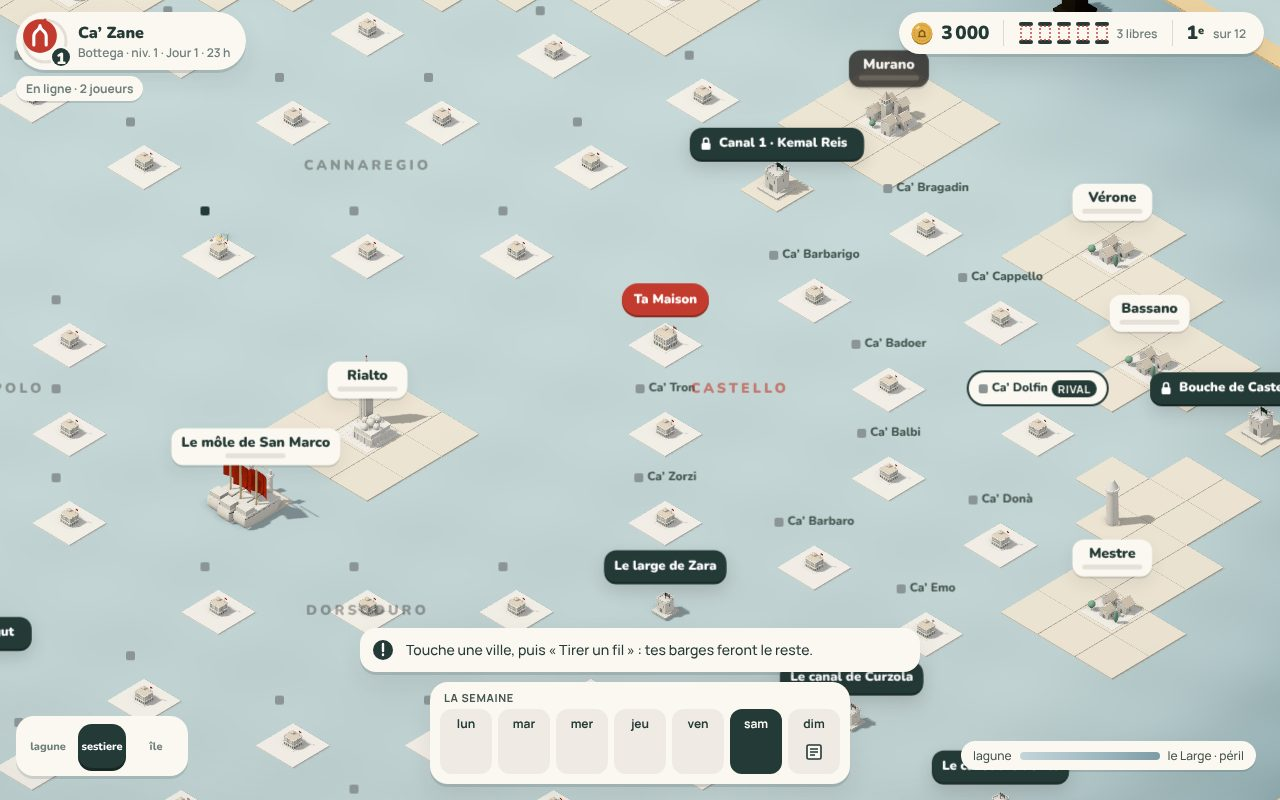
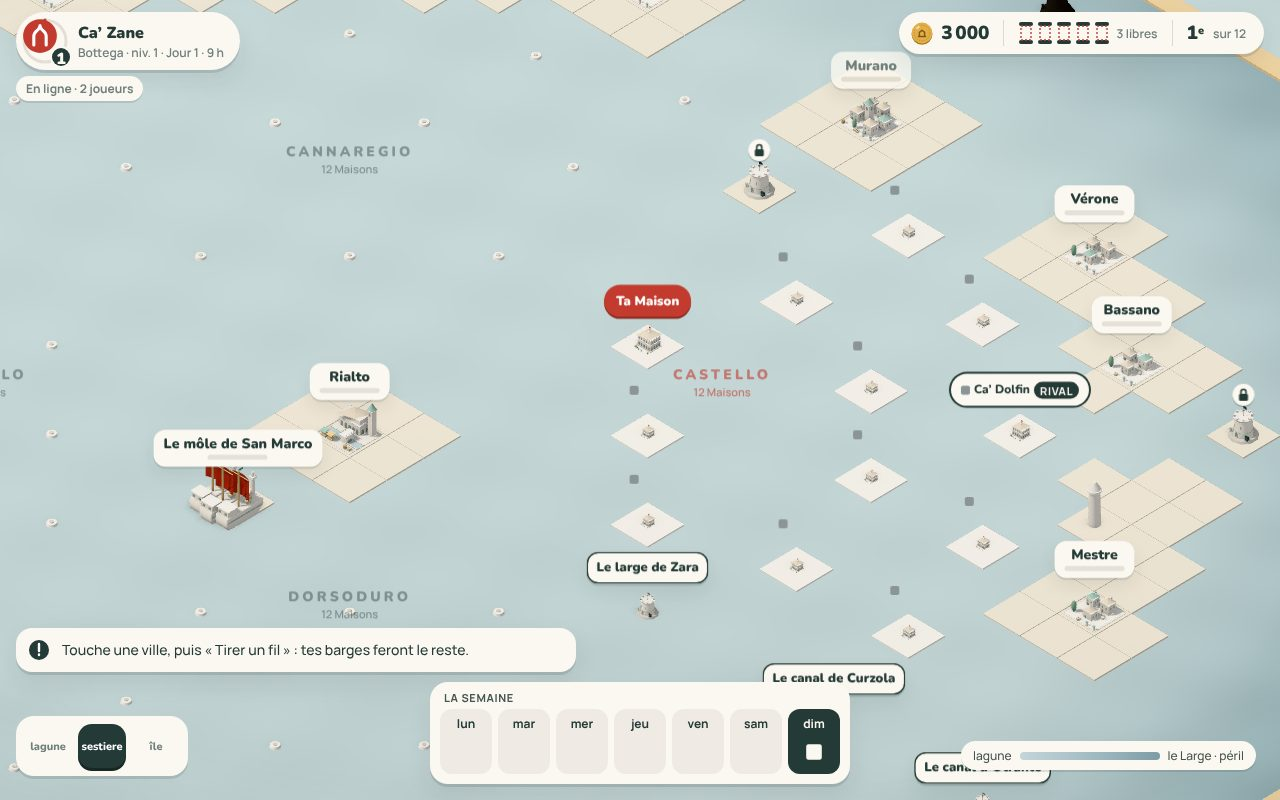
Lagune simplifiée (S1) : quatre Maisons nommées, les autres sestieri en plots, le décor et les fils des autres retirés
Claude-Session: https://claude.ai/code/session_018R4YjaoBgswAiyN4DySRU5

diff --git a/apps/web/src/porcellana/planche/PlancheBoard.tsx b/apps/web/src/porcellana/planche/PlancheBoard.tsx
@@ -60,6 +60,7 @@ import { box, crate, cyl, disposeBuilt } from "../shapes.js";
 import { BOARD, CAMERA, CELADON, LAGOON, RIBBON, SEA, THREAD } from "../tokens.js";
 
 const S = BOARD.tile + BOARD.gap;
+const NONE: readonly string[] = [];
 
 /** What the board is made of beside its houses and towns: where the land lies, how dark each tile is. */
 export interface PlancheLand {
@@ -160,6 +161,7 @@ export function PlancheBoard({
   plain,
   zoom = 1,
   rival,
+  focus = NONE,
   whole = false,
   marks = [],
 }: {
@@ -177,6 +179,8 @@ export function PlancheBoard({
   zoom?: number;
   /** One's rival of the week: its threads in a bolder ink (docs/plan-classement.md). */
   rival?: string;
+  /** The houses one reads the board by, besides one's own: the rival, who is ahead, who behind. */
+  focus?: readonly string[];
   /** The whole lagoon in view, centred (docs/plan-lagunes.md G5); one's own sestiere otherwise. */
   whole?: boolean;
   /** Labels laid on the board itself (the sestieri's names on the water), by key and tile. */
@@ -188,6 +192,10 @@ export function PlancheBoard({
   const { width: W, height: H } = setup;
   const wx = (x: number) => (x - (W - 1) / 2) * S;
   const wz = (y: number) => (y - (H - 1) / 2) * S;
+  const home = setup.houses.find((h) => h.id === me)?.sestiere;
+  const focusKey = focus.join(",");
+  /** Whose island is dressed on the board (its workshops, its fleet, its beacon, its stones). */
+  const dressed = (id: string) => id === me || id === rival;
 
   // The ground (docs/audit-visuel-2026-11-11, redrawn in the Céladon direction, docs/plan-celadon.md
   // C4): the land in the kit's tiles, a warm stone, a little greyer toward the open sea; the houses'
@@ -197,7 +205,13 @@ export function PlancheBoard({
   const ground = useMemo(() => {
     const root = new Group();
     const round = setup.houses.some((h) => h.sestiere);
-    const isles = new Set<string>(setup.houses.map((h) => `${h.x},${h.y}`));
+    // An island's tile for the houses drawn as houses; a house of another sestiere is a stud on
+    // the water (docs/plan-celadon.md § 7, S1).
+    const isles = new Set<string>(
+      setup.houses
+        .filter((h) => h.sestiere === home || h.id === me || focus.includes(h.id))
+        .map((h) => `${h.x},${h.y}`),
+    );
     const rocks = new Set<string>([
       ...setup.passages.map((p) => `${p.x},${p.y}`),
       `${land.rialto.x},${land.rialto.y}`,
@@ -300,7 +314,7 @@ export function PlancheBoard({
     open.receiveShadow = true;
     root.add(open);
     return root;
-  }, [setup, land]);
+  }, [setup, land, me, focusKey]);
 
   // What stands on the board: the houses, the towns, the Rialto.
   // biome-ignore lint/correctness/useExhaustiveDependencies: built once for a board.
@@ -324,9 +338,18 @@ export function PlancheBoard({
     };
     for (const h of setup.houses)
       put(`house:${h.id}`, { kind: "house", id: h.id }, h.x, h.y, () => {
-        // The Fondaco of the islands, in small: one's own a little larger.
+        // Only the houses that matter to one are drawn whole (docs/plan-celadon.md § 7, S1): one's
+        // own Fondaco, larger; one's rival's and one's two neighbours of rank; the others of one's
+        // sestiere in small; a stud for every house of another sestiere.
+        const near = h.id === me || focus.includes(h.id);
+        if (!near && h.sestiere !== home) {
+          const g = new Group();
+          cyl(g, 1.0, 1.15, 0.36, 0, 0, 0, C("trim"), 18);
+          cyl(g, 0.5, 0.5, 0.12, 0, 0.36, 0, C("stone2"), 14);
+          return g;
+        }
         const b = WORKSHOPS.fondaco?.(P, { level: 1, seed: 0 }).group ?? new Group();
-        b.scale.setScalar(h.id === me ? 0.5 : 0.38);
+        b.scale.setScalar(h.id === me ? 0.5 : near ? 0.38 : 0.26);
         return b;
       });
     // A town on the Rialto's tile is the Rialto itself: the market of Venice stands there.
@@ -356,7 +379,7 @@ export function PlancheBoard({
     if (!setup.cities.some((c) => c.x === land.rialto.x && c.y === land.rialto.y))
       put("rialto", null, land.rialto.x, land.rialto.y, () => market(P).group);
     return { root, at };
-  }, [setup, land, me]);
+  }, [setup, land, me, focusKey]);
 
   // A campanile on each sestiere's shore, each its own (docs/plan-lagune-ronde.md L6): one knows
   // one's quarter by its tower, without reading. On the shore between its last town and the
@@ -434,7 +457,7 @@ export function PlancheBoard({
     ] as const;
     isles.split("|").forEach((list, k) => {
       const h = setup.houses[k];
-      if (!h || !list) return;
+      if (!h || !list || !dressed(h.id)) return;
       list.split(",").forEach((type, n) => {
         const make = Object.hasOwn(WORKSHOPS, type) ? WORKSHOPS[type] : undefined;
         const model = make?.(P, { level: 1, seed: k * 11 + n });
@@ -449,7 +472,7 @@ export function PlancheBoard({
       });
     });
     return root;
-  }, [isles, setup, P]);
+  }, [isles, setup, P, rival]);
 
   // Each house's fleet at anchor south of its island (docs/plan-arsenal.md): who has armed, and how
   // much, reads from afar. Four hulls at most, the rest told in its card.
@@ -461,7 +484,7 @@ export function PlancheBoard({
     const root = new Group();
     fleets.split(",").forEach((n, k) => {
       const h = setup.houses[k];
-      if (!h) return;
+      if (!h || !dressed(h.id)) return;
       for (let i = 0; i < Number(n); i++) {
         const boat = ship(P, { seed: k * 5 + i, running: false });
         boat.group.scale.setScalar(THREAD.boat * 1.15);
@@ -472,7 +495,7 @@ export function PlancheBoard({
     });
     bake(root);
     return root;
-  }, [fleets, setup, P]);
+  }, [fleets, setup, P, rival]);
 
   // The beacon of each house's company (docs/plan-compagnie.md K4): a small lighthouse at its
   // island's corner, a ring of light for each of its levels.
@@ -493,7 +516,7 @@ export function PlancheBoard({
     beacons.split(",").forEach((n, k) => {
       const level = Number(n);
       const h = setup.houses[k];
-      if (!h || level <= 0) return;
+      if (!h || level <= 0 || !dressed(h.id)) return;
       const g = new Group();
       // A company's beacon opens its sheet (docs/plan-semaine.md D3).
       g.userData.pick = { kind: "phare", id: h.id } satisfies PlanchePick;
@@ -513,7 +536,7 @@ export function PlancheBoard({
     });
     bake(root);
     return root;
-  }, [beacons, setup, P]);
+  }, [beacons, setup, P, rival]);
 
   // The black straits (docs/plan-muda.md N5): towers in the ink of the powers, never held; at
   // their foot, three links of chain that blacken as the week's guard hardens.
@@ -725,7 +748,7 @@ export function PlancheBoard({
     const root = new Group();
     stones.split(",").forEach((n, k) => {
       const h = setup.houses[k];
-      if (!h) return;
+      if (!h || !dressed(h.id)) return;
       for (let i = 0; i < Math.min(5, Number(n)); i++) {
         const g = new Group();
         g.position.set(wx(h.x) - 2.5 + i * 0.7, 0, wz(h.y) - 2.6);
@@ -736,7 +759,7 @@ export function PlancheBoard({
     });
     bake(root);
     return root;
-  }, [stones, setup, P]);
+  }, [stones, setup, P, rival]);
 
   // The towers of the passages: their flag tells who holds them.
   const holders = setup.passages.map((p) => state.passages[p.id]?.holder ?? "").join("|");
@@ -922,18 +945,17 @@ export function PlancheBoard({
     return { root, mine };
   }, [setup, threads, me, chevrons, dashes, holders, rival]);
 
-  // With the whole lagoon in view, only one's own threads and one's rival's are drawn; the others'
-  // come back in one's sestiere, or for the town or the house one has chosen (docs/plan-celadon.md C4).
+  // Only one's own threads and one's rival's are drawn; the others' come for the town or the house
+  // one has chosen (docs/plan-celadon.md § 7, S1).
   useEffect(() => {
     for (const o of web.root.children) {
       const t = o.userData.other as { house: string; city: string } | undefined;
       if (!t) continue;
       o.visible =
-        !whole ||
         (chosen?.kind === "city" && chosen.id === t.city) ||
         (chosen?.kind === "house" && chosen.id === t.house);
     }
-  }, [web, whole, chosen]);
+  }, [web, chosen]);
 
   const ring = useMemo(() => {
     const m = new Mesh(
@@ -1106,6 +1128,7 @@ export function PlancheBoard({
   useEffect(() => () => disposeBuilt(ink), [ink]);
   useEffect(() => () => disposeBuilt(corsairs), [corsairs]);
   useEffect(() => () => disposeBuilt(engraved), [engraved]);
+  useEffect(() => () => disposeBuilt(ground), [ground]);
   useEffect(() => () => disposeBuilt(towers.root), [towers.root]);
   useEffect(() => () => disposeBuilt(darks.root), [darks.root]);
   useEffect(() => () => disposeBuilt(convoy.root), [convoy.root]);

diff --git a/apps/web/src/porcellana/planche/LabPlanche.tsx b/apps/web/src/porcellana/planche/LabPlanche.tsx
@@ -22,6 +22,7 @@ import {
   maisonThreshold,
   maisonUnlocks,
   plancheAdvance,
+  plancheAround,
   plancheAssemble,
   plancheBuild,
   plancheBuyTile,
@@ -771,6 +772,13 @@ export default function LabPlanche() {
     };
   }, [state, ME]);
   const rival = state.rank.rivals[ME];
+  // The houses one reads the board by (docs/plan-celadon.md § 7, S1): one's rival, and who stands
+  // just ahead and just behind at the Doge's. They alone are named, with oneself.
+  const around = useMemo(() => (ME ? plancheAround(S, state, ME) : {}), [state, ME]);
+  const kept = useMemo(
+    () => [rival, around.ahead, around.behind].filter((x): x is string => !!x),
+    [rival, around.ahead, around.behind],
+  );
   // The sealed orders of one's sestiere open now, not yet delivered (docs/plan-hex-commerce.md H2).
   const today = Math.floor(state.now / (24 * HOUR));
   const orders = useMemo(
@@ -1973,6 +1981,7 @@ export default function LabPlanche() {
           whole={LAGOON && scale === "monde"}
           marks={SESTIERI}
           rival={rival}
+          focus={kept}
         />
       </Canvas>
       <div className="pc-vignette" />
@@ -2028,11 +2037,9 @@ export default function LabPlanche() {
           // own, one the ink threatens, the one chosen; up close, those of one's sestiere and the
           // canals. The others are their tower and a mark, named at a touch.
           const named =
-            !LAGOON ||
             holder === ME ||
             threatened.has(p.id) ||
-            (chosen?.kind === "passage" && chosen.id === p.id) ||
-            (scale !== "monde" && (p.id.startsWith("canal-") || p.id.endsWith(`-${mySestiere}`)));
+            (chosen?.kind === "passage" && chosen.id === p.id);
           return (
             <button
               key={p.id}
@@ -2133,14 +2140,16 @@ export default function LabPlanche() {
         ))}
         {S.houses.map((h) => {
           const robot = online ? !view?.players.includes(h.id) : h.robot;
-          // In a lagoon, names where they are read: one's own sestiere up close; from afar, only
-          // oneself, one's rival and the Doge. The others, a flag (docs/plan-lagunes.md G5).
+          // Four houses are named: oneself, one's rival, who is just ahead, who just behind; and the
+          // one chosen. One's other neighbours are a flag; the houses of another sestiere, a stud
+          // on the board, named at a touch (docs/plan-celadon.md § 7, S1).
           const named =
-            !LAGOON ||
-            h.id === ME ||
-            h.id === rival ||
-            !!rank.marks[h.id]?.doge ||
-            (scale !== "monde" && h.sestiere === mySestiere);
+            h.id === ME || kept.includes(h.id) || (chosen?.kind === "house" && chosen.id === h.id);
+          const far = !named && LAGOON && h.sestiere !== mySestiere;
+          const place =
+            h.id !== rival && (h.id === around.ahead || h.id === around.behind)
+              ? planchePlace(S, state, h.id)
+              : undefined;
           return (
             <button
               key={h.id}
@@ -2148,6 +2157,7 @@ export default function LabPlanche() {
               ref={pin(`house:${h.id}`)}
               className="pc-planche-pin pc-planche-house"
               data-compact={String(!named)}
+              data-far={String(far)}
               aria-label={named ? undefined : short(h.id)}
               data-house={h.id}
               data-mine={String(h.id === ME)}
@@ -2171,7 +2181,13 @@ export default function LabPlanche() {
               )}
               {named ? <b>{h.id === ME ? "Ta Maison" : short(h.id)}</b> : null}
               {h.id === rival ? <small className="pc-rk-tag">rival</small> : null}
-              <Marks m={rank.marks[h.id]} name={short} />
+              {place ? (
+                <small className="pc-rk-tag" data-place>
+                  {place}
+                  <sup>e</sup>
+                </small>
+              ) : null}
+              {named ? <Marks m={rank.marks[h.id]} name={short} /> : null}
             </button>
           );
         })}
@@ -2185,6 +2201,7 @@ export default function LabPlanche() {
                 aria-hidden="true"
               >
                 {m.name}
+                <small>{S.houses.filter((h) => h.sestiere === m.id).length} Maisons</small>
               </span>
             ))
           : null}

diff --git a/packages/engine/test/planche/rang.test.ts b/packages/engine/test/planche/rang.test.ts
@@ -3,6 +3,7 @@ import {
   type PlancheSetup,
   type PlancheState,
   plancheAdvance,
+  plancheAround,
   plancheClaim,
   plancheDuel,
   plancheForced,
@@ -222,6 +223,35 @@ describe("the rank and its laurels", () => {
     expect(standing[0]?.house).toBe("dan");
     expect(standing[0]?.place).toBe(1);
     expect(standing[0]?.places.garde).toBe(1);
+  });
+
+  it("tells who stands just ahead of a house and who just behind", () => {
+    const S = setup();
+    let s = plancheInit(S, T0);
+    // Everyone level: nobody is ahead of anybody.
+    expect(plancheAround(S, s, "ana")).toEqual({});
+    s = thread(S, s, "dan", "padoue");
+    s = thread(S, s, "ana", "trevise");
+    s = plancheAdvance(S, s, T0 + 2 * DAY);
+    const standing = plancheStanding(S, s);
+    const first = standing[0];
+    const next = standing.find((r) => r.place > 1);
+    const last = standing[standing.length - 1];
+    if (!first || !next || !last) throw new Error("no standing");
+    expect(first.place).toBe(1);
+    expect(plancheAround(S, s, first.house)).toEqual({ behind: next.house });
+    const nearest = standing.filter((r) => r.place < next.place).pop();
+    expect(plancheAround(S, s, next.house).ahead).toBe(nearest?.house);
+    expect(plancheAround(S, s, last.house).behind).toBeUndefined();
+    // Never oneself, never a house of the same place.
+    for (const r of standing) {
+      const a = plancheAround(S, s, r.house);
+      for (const o of [a.ahead, a.behind]) {
+        expect(o).not.toBe(r.house);
+        if (o) expect(standing.find((x) => x.house === o)?.place).not.toBe(r.place);
+      }
+    }
+    expect(plancheAround(S, s, "__proto__")).toEqual({});
   });
 
   it("tells the trend since the day began", () => {

diff --git a/packages/engine/src/planche/rang.ts b/packages/engine/src/planche/rang.ts
@@ -192,6 +192,23 @@ export function plancheStanding(
     .sort((a, b) => a.place - b.place || a.house.localeCompare(b.house));
 }
 
+/**
+ * Who stands just ahead of a house among its neighbours, and who just behind (for a board to name
+ * them): the nearest better place and the nearest worse one, never a house level with it.
+ */
+export function plancheAround(
+  S: PlancheSetup,
+  s: PlancheState,
+  house: string,
+): { ahead?: string; behind?: string } {
+  const rows = plancheStanding(S, s, sestiereOf(S, house));
+  const me = rows.find((r) => r.house === house);
+  if (!me) return {};
+  const ahead = rows.filter((r) => r.place < me.place).pop()?.house;
+  const behind = rows.find((r) => r.place > me.place)?.house;
+  return { ...(ahead ? { ahead } : {}), ...(behind ? { behind } : {}) };
+}
+
 /** A house's place among its neighbours: in its sestiere, or on the whole board without sestieri. */
 export function planchePlace(S: PlancheSetup, s: PlancheState, house: string): number | undefined {
   return plancheStanding(S, s, sestiereOf(S, house)).find((r) => r.house === house)?.place;

diff --git a/apps/web/src/porcellana/planche/planche.css b/apps/web/src/porcellana/planche/planche.css
@@ -1243,6 +1243,25 @@ button.pc-pl-brand {
 .pc-planche-house[data-compact="true"] {
   padding: 4px;
 }
+/* A house of another sestiere is a stud on the board: its pin is there for a touch only
+   (docs/plan-celadon.md § 7, S1). */
+.pc-planche-house[data-far="true"] {
+  opacity: 0;
+  pointer-events: none;
+}
+.pc-rk-tag[data-place] {
+  background: var(--pc-celadon-pale);
+  color: var(--pc-ink);
+}
+.pc-pl-sestiere {
+  flex-direction: column;
+  gap: 0;
+}
+.pc-pl-sestiere small {
+  font: 600 11px var(--pc-ui);
+  letter-spacing: 0;
+  text-transform: none;
+}
 /* The round lagoon (docs/plan-lagune-ronde.md L6): a tower not named at this scale is its mark. */
 .pc-pl-tower[data-compact="true"],
 .pc-pl-city[data-compact="true"] {
@@ -1273,7 +1292,7 @@ button.pc-pl-brand {
   font: 900 14px var(--pc-display);
   letter-spacing: 0.22em;
   text-transform: uppercase;
-  color: rgba(23, 21, 15, 0.34);
+  color: rgba(36, 58, 54, 0.42);
   white-space: nowrap;
 }
 .pc-pl-sestiere[data-mine="true"] {
